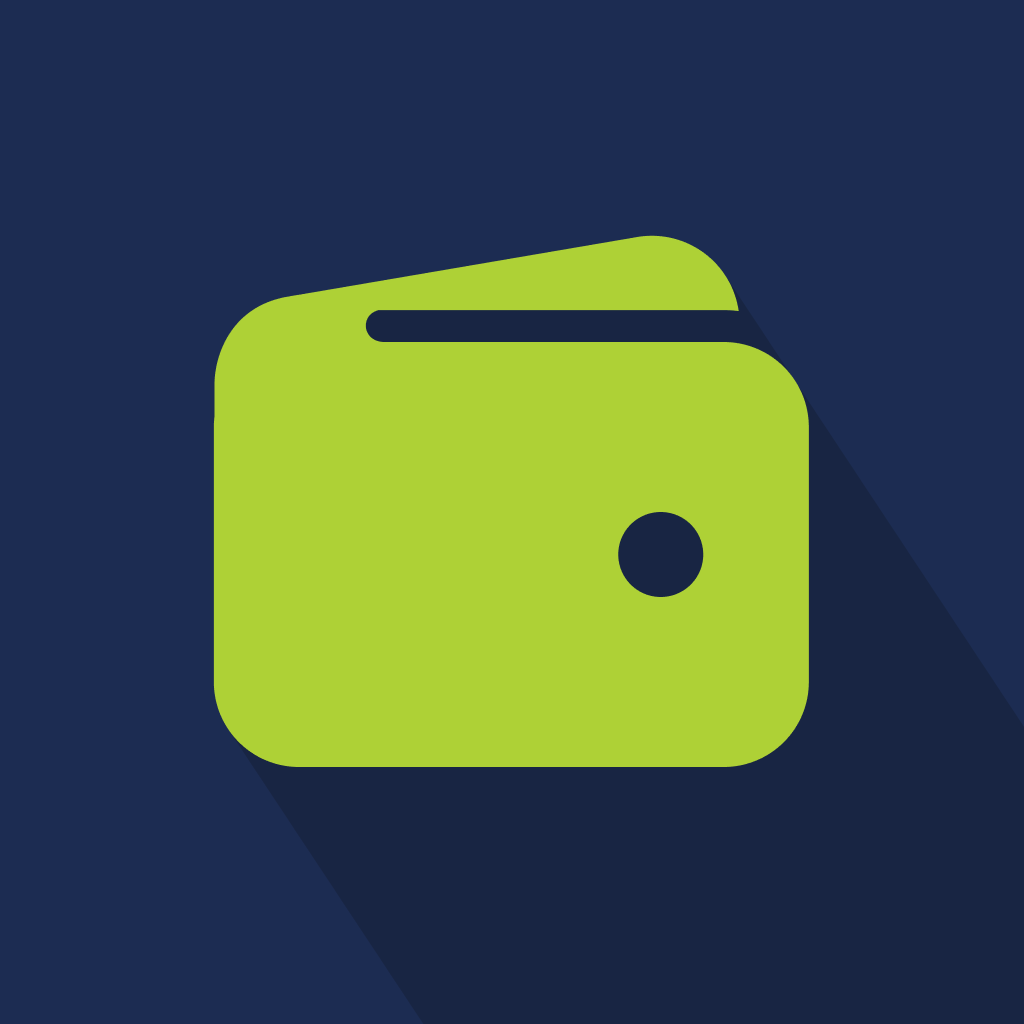
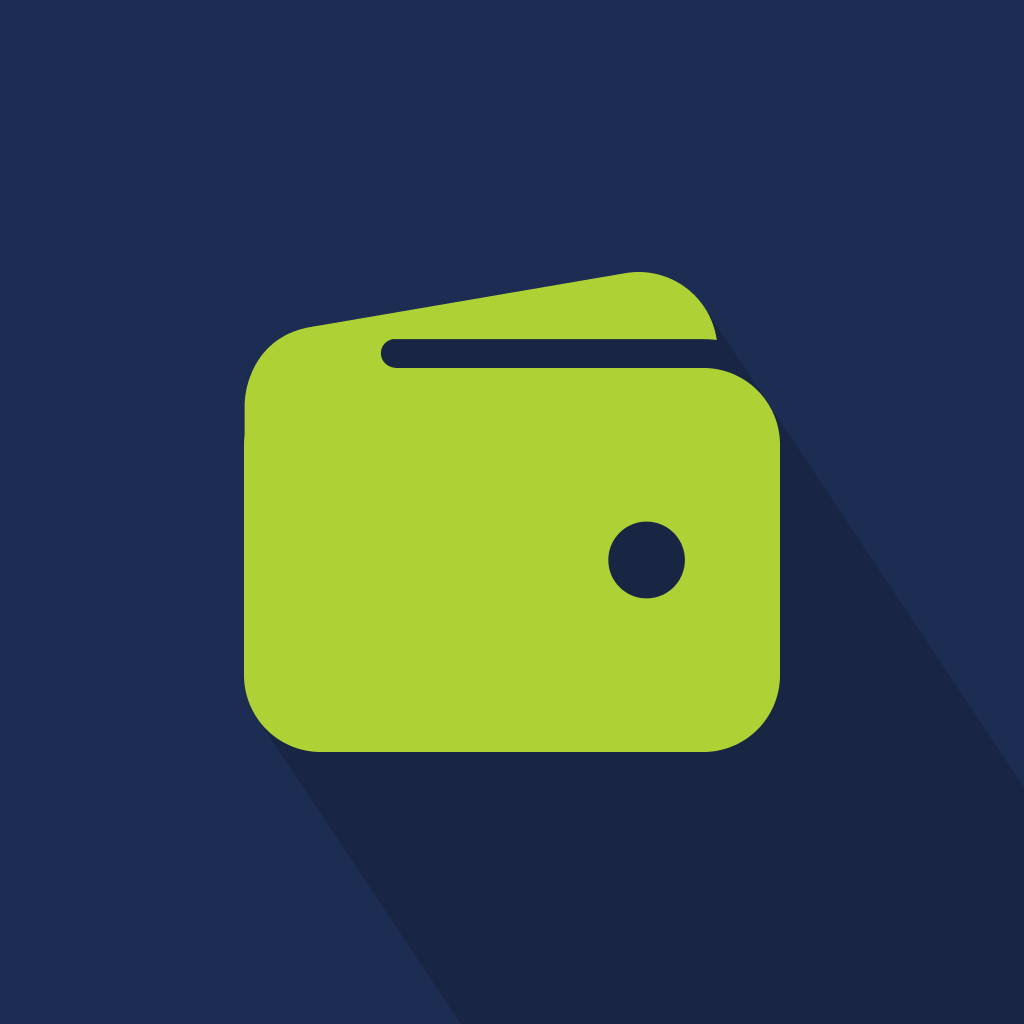
Minor changes

Changed region(s): [[0.1875, 0.2188, 0.8125, 0.75], [0.5938, 0.5, 0.6875, 0.5938]]

diff --git a/src/components/icons/app-icon.tsx b/src/components/icons/app-icon.tsx
@@ -19,11 +19,11 @@ export function AppIcon({ size=256 }: ConfIconProps) {
                     fill="#1C2C52"
                 />
                 <Path 
-                    d="M56.2888 96.5L92 74.5L181.254 68.7693L290.413 233.691L151.803 325.435L56.2888 181.129L56.2888 96.5Z"
+                    d="M93 81L176.207 76.9999L283.391 237.992L158.535 321.118L64.7491 180.25L93 81Z"
                     fill="#16223D"
                 />
                 <Path 
-                    d="M158.935 59.3192C161.843 58.7736 164.832 58.8229 167.721 59.4635C170.609 60.1041 173.338 61.3229 175.743 63.0467C178.148 64.7706 180.179 66.9636 181.713 69.4935C183.248 72.0234 184.254 74.8378 184.671 77.767C183.44 77.6094 182.2 77.5307 180.959 77.5313H94.6581C89.8877 78.6879 90.5039 85.5 96.125 85.5H180.959C186.593 85.5062 191.994 87.747 195.978 91.7308C199.962 95.7146 202.203 101.116 202.209 106.75V170.5C202.203 176.134 199.962 181.535 195.978 185.519C191.994 189.503 186.593 191.744 180.959 191.75H74.709C69.075 191.744 63.6736 189.503 59.6898 185.519C55.706 181.535 53.4651 176.134 53.459 170.5V106.75C53.4599 105.866 53.516 104.988 53.625 104.121V96.125C53.625 89.1995 57.3165 77.7645 69.9253 74.5871C70.4293 74.4527 70.9396 74.3361 71.4551 74.2376H71.5281C72.6903 74.0207 73.851 73.8253 74.9992 73.6494L158.935 59.3192ZM169.254 128.809C167.312 128.005 165.176 127.794 163.115 128.204C161.054 128.614 159.161 129.626 157.675 131.112C156.189 132.598 155.177 134.491 154.767 136.552C154.357 138.613 154.567 140.75 155.371 142.691C156.175 144.633 157.537 146.292 159.285 147.459C161.032 148.627 163.086 149.25 165.188 149.25C168.005 149.25 170.708 148.13 172.7 146.138C174.693 144.145 175.812 141.443 175.812 138.625C175.812 136.524 175.189 134.469 174.022 132.722C172.855 130.975 171.195 129.613 169.254 128.809Z"
+                    d="M156.017 68.3395C158.637 67.8466 161.329 67.8908 163.931 68.4696C166.534 69.0485 168.992 70.1501 171.158 71.7077C173.325 73.2652 175.154 75.2466 176.537 77.5324C177.919 79.8184 178.825 82.3614 179.201 85.0082C178.092 84.8658 176.975 84.7947 175.857 84.7952H98.1141C93.8163 85.84 94.3714 91.9955 99.4353 91.9955H175.857C180.932 92.0011 185.798 94.0258 189.387 97.6255C192.976 101.225 194.994 106.106 195 111.196V168.799C194.994 173.89 192.976 178.77 189.387 182.37C185.798 185.97 180.932 187.994 175.857 188H80.1429C75.0676 187.994 70.2017 185.97 66.6129 182.37C63.0242 178.77 61.0055 173.89 61 168.799V111.196C61.0009 110.398 61.0513 109.605 61.1496 108.821V101.596C61.1496 95.3366 64.4768 85.0006 75.8426 82.1329C76.2936 82.0125 76.7501 81.9075 77.2114 81.8191H77.2786C78.3201 81.6241 79.3603 81.4486 80.3894 81.2902L156.017 68.3395ZM165.312 131.128C163.563 130.402 161.639 130.211 159.782 130.582C157.926 130.952 156.22 131.867 154.881 133.209C153.543 134.552 152.631 136.263 152.262 138.125C151.893 139.987 152.082 141.918 152.807 143.672C153.531 145.426 154.758 146.925 156.332 147.98C157.906 149.035 159.757 149.598 161.65 149.598C164.188 149.598 166.622 148.587 168.417 146.786C170.212 144.986 171.221 142.544 171.221 139.998C171.221 138.099 170.659 136.243 169.608 134.664C168.556 133.086 167.061 131.855 165.312 131.128Z"
                     fill="#AED136"
                 />
             </G>

diff --git a/src/components/data/charts/categories-pie-chart.tsx b/src/components/data/charts/categories-pie-chart.tsx
@@ -67,7 +67,6 @@ const CategoriesPieChart = ({ year, month }: Props) => {
     useEffect(() => {
         const loadCategoriesAmount = async () => {
             const categoriesAmount = await getCategoriesAmount(year, month, 'expense');
-            
             let dataDonutProcessed:any[] = [];
 
             categoriesAmount.forEach((element, index) => {
@@ -82,7 +81,7 @@ const CategoriesPieChart = ({ year, month }: Props) => {
         };
 
         loadCategoriesAmount();
-    }, [getCategoriesAmount, year, month]);
+    }, [getCategoriesAmount]);
 
     // Calculate the radius of the container
     const [containerWidth, setContainerWidth] = useState(0);
@@ -103,7 +102,7 @@ const CategoriesPieChart = ({ year, month }: Props) => {
                 sectionAutoFocus
                 focusOnPress
                 strokeWidth={ 0.5 }
-                strokeColor={ colors.backgroundPrimary }
+                strokeColor={ colors.backgroundSecondary }
                 onPress={ (item: { label: string, value: number }) => {
                     if (categoryPressed == item.label) {
                         const totalAmount = chartPieData.reduce((sum, item) => sum + item.value, 0);
@@ -116,7 +115,7 @@ const CategoriesPieChart = ({ year, month }: Props) => {
                 }}
                 radius={ radius }
                 innerRadius={ innerRadius }
-                innerCircleColor={ colors.backgroundPrimary }
+                innerCircleColor={ colors.backgroundSecondary }
                 centerLabelComponent={() => {
                     return (
                         <View style={{ justifyContent: 'center', alignItems: 'center' }}>

diff --git a/app/home/index.tsx b/app/home/index.tsx
@@ -98,15 +98,15 @@ const HomeScreen = () => {
                                 Resume
                                 <ThemedText style={ styles.subtitle } weight='light'> ({ date.toLocaleString('en-GB', { month: 'long' }) })</ThemedText>
                             </ThemedText>
-                            <CategoriesPieChart year={ date.getUTCFullYear() } month={ date.getUTCMonth() } />
+                            <CategoriesPieChart year={ date.getUTCFullYear() } month={ date.getUTCMonth() + 1 } />
                         </View>
 
-                        <View style={ styles.sectionHalf }>
+                        {/* <View style={ styles.sectionHalf }>
                             <ThemedText style={ styles.title } weight='regular'>Evolution</ThemedText>
                             <View style={ styles.evolution }>
 
                             </View>
-                        </View>
+                        </View> */}
                     </View>
 
                     <View style={ styles.section }>
@@ -196,6 +196,7 @@ const createStyles = (colors: ThemeColors) =>
             flexDirection: 'column',
             rowGap: 8,
             width: '47.5%',
+            marginHorizontal: 'auto',
         },
 
         title: {

diff --git a/src/db/repositories/profile.respository.ts b/src/db/repositories/profile.respository.ts
@@ -201,7 +201,7 @@ export async function modifyDataModified(): Promise<void> {
 }
 
 // Modify the data deleted for a profile by ID
-export async function modifyDataDeleted(): Promise<void> {
+export async function modifyDataDeleted(count: number): Promise<void> {
     const db = await dbPromise;
 
     // Get the date of the action
@@ -210,7 +210,7 @@ export async function modifyDataDeleted(): Promise<void> {
     await db.runAsync(
         `
             UPDATE profiles
-            SET last_action_date = ?, last_action = ?, number_actions = number_actions + 1, number_transactions = number_transactions - 1, number_transactions_deleted = number_transactions_deleted + 1
+            SET last_action_date = ?, last_action = ?, number_actions = number_actions + ?, number_transactions = number_transactions - ?, number_transactions_deleted = number_transactions_deleted + ?
             WHERE id = (
                 SELECT id
                 FROM profiles
@@ -220,7 +220,10 @@ export async function modifyDataDeleted(): Promise<void> {
             )
         `,
         now,
-        'Delete transaction'
+        'Delete transaction',
+        count,
+        count,
+        count
     );
 }
 

diff --git a/app/configuration/data/categories/modify/[id].tsx b/app/configuration/data/categories/modify/[id].tsx
@@ -26,7 +26,7 @@ const DataModify = () => {
     // Database
     const { removeTransactionsByCategory, loadingTransactions } = useTransactions();
     const { category, getCategory, modifyCategory, removeCategory, loadingCategories } = useCategories();
-    const { modifyProfileLastAction } = useProfiles();
+    const { modifyProfileLastAction, modifyProfileDataDeleted } = useProfiles();
 
     // ID of the element
     const { id } = useLocalSearchParams<{ id: string }>();
@@ -95,12 +95,13 @@ const DataModify = () => {
     // DELETE CATEGORY ACTION
     async function deleteCategoryAction() {
         // Remove the transactions related to the category
-        await removeTransactionsByCategory(Number(id));
+        const count = await removeTransactionsByCategory(Number(id));
 
         // Remove the category
         await removeCategory(Number(id));
 
         // Modify the profile
+        await modifyProfileDataDeleted(count);
         await modifyProfileLastAction({ lastAction: 'Delete category' });
 
         // Return to the prevous page

diff --git a/app/configuration/index.tsx b/app/configuration/index.tsx
@@ -166,7 +166,7 @@ const ConfigurationScreen = () => {
                 </View>
             </ScrollView>
             
-            <ModifyElement active={ changeUsernamePopup } title='New username' value={ username } placeholder='New username' error={ error } modifyAction={ changeUsernameAction } cancelAction={ activeChangeUsernamePopup } onChange={ setUsername } />
+            <ModifyElement active={ changeUsernamePopup } title='Change username' value={ username } placeholder='New username' error={ error } modifyAction={ changeUsernameAction } cancelAction={ activeChangeUsernamePopup } onChange={ setUsername } />
             <DeleteElement active={ deleteAccountPopup } title={ deleteAccountTitle } titleButton='Delete' deleteAction={ deleteAccountAction } cancelAction={ activeDeleteAccountPopup } />
             <DeleteElement active={ resetAppPopup } title={ resetAppTitle } titleButton='Reset' deleteAction={ resetAppAction } cancelAction={ activeResetAppPopup } />
         </View>

diff --git a/src/hooks/useProfiles.ts b/src/hooks/useProfiles.ts
@@ -105,7 +105,6 @@ export function useProfiles() {
     }, []);
 
     // MODIFY LAST ACTION
-    // MODIFY
     const modifyProfileLastAction = useCallback(async (data: LastActionProfile) => {
         try {
             // Set loading and error states
@@ -186,14 +185,14 @@ export function useProfiles() {
     }, []);
 
     // MODIFY DATA DELETED
-    const modifyProfileDataDeleted = useCallback(async () => {
+    const modifyProfileDataDeleted = useCallback(async (count: number = 1) => {
         try {
             // Set loading and error states
             setLoading(true);
             setError(null);
 
             // Modify the data deleted
-            await profilesRepository.modifyDataDeleted();
+            await profilesRepository.modifyDataDeleted(count);
         } catch (err) {
             // Error handling
             const error = err instanceof Error ? err : new Error('Error modifying deleted data');

diff --git a/src/components/data/charts/categories-charts.tsx b/src/components/data/charts/categories-charts.tsx
@@ -151,7 +151,7 @@ const CategoriesCharts = ({ year, month, type }: Props) => {
 
             { chartBarData.length !== 0 &&
                 <View style={ styles.containerBar }>
-                    <View style={{ height: categoriesExtent, top: -40 }}>
+                    <View style={{ height: categoriesExtent, top: -50 }}>
                         <BarChart
                             data={ chartBarData }
                             horizontal
@@ -167,6 +167,7 @@ const CategoriesCharts = ({ year, month, type }: Props) => {
                             rulesType='solid'
                             rulesColor={ colors.chartRulesColor }
                             rulesThickness={ 1 }
+                            rulesLength={ categoriesExtent - 65 }
 
                             xAxisThickness={ 0 }
                             yAxisThickness={ 0 }

diff --git a/src/components/data/charts/monthly-bar-chart.tsx b/src/components/data/charts/monthly-bar-chart.tsx
@@ -50,12 +50,15 @@ const MonthlyBarChart = ({ year }: Props) => {
         loadBalanceMonthly();
     }, [year]);
 
+    // Calculate the radius of the container
+    const [containerWidth, setContainerWidth] = useState(0);
+
     if (!chartData) {
         return;
     }
 
     return (
-        <View style={ styles.container }>
+        <View style={ styles.container } onLayout={(event) => { setContainerWidth(event.nativeEvent.layout.width); }}>
             <BarChart
                 data={ chartData }
                 
@@ -69,6 +72,7 @@ const MonthlyBarChart = ({ year }: Props) => {
                 rulesType='solid'
                 rulesColor={ colors.chartRulesColor }
                 rulesThickness={ 1 }
+                rulesLength={ containerWidth - 50 }
 
                 barWidth={ 4 }
                 barBorderRadius={ 1.5 }

diff --git a/src/db/repositories/transaction.repository.ts b/src/db/repositories/transaction.repository.ts
@@ -230,8 +230,17 @@ export async function removeAll(): Promise<void> {
 }
 
 // Delete all transactions
-export async function removeByCategory(categoryId: number): Promise<void> {
+export async function removeByCategory(categoryId: number): Promise<number> {
     const db = await dbPromise;
+
+    const transactionCount = await db.getFirstAsync<{ count: number }>(
+        `
+            SELECT COUNT(*) as count
+            FROM transactions
+            WHERE category_id = ?
+        `,
+        categoryId
+    );
 
     await db.runAsync(
         `
@@ -245,6 +254,8 @@ export async function removeByCategory(categoryId: number): Promise<void> {
         `,
         categoryId
     );
+
+    return transactionCount?.count ?? 0;
 }
 
 // Get the balance for a given date range

diff --git a/src/hooks/useTransactions.ts b/src/hooks/useTransactions.ts
@@ -155,7 +155,10 @@ export function useTransactions() {
             setError(null);
 
             // Remove all transactions
-            await transactionsRepository.removeByCategory(categoryId);
+            const count = await transactionsRepository.removeByCategory(categoryId);
+
+            // Return the number of transactions removed
+            return count;
         } catch (err) {
             // Error handling
             const error = err instanceof Error ? err : new Error('Error removing all transactions');

diff --git a/src/db/migrations.ts b/src/db/migrations.ts
@@ -7,9 +7,6 @@ export async function initializeDatabase() {
     // DROP TABLE IF EXISTS transactions;
     // DROP TABLE IF EXISTS profiles;
 
-    // INSERT INTO profiles (username, creation_date, last_action_date, data_added, data_modified, data_deleted)
-    // VALUES ('Borchax', '19/09/2026', '19/09/2026', 0, 0, 0);
-
     await db.execAsync(`
         PRAGMA journal_mode = WAL;
         PRAGMA foreign_keys = ON;
